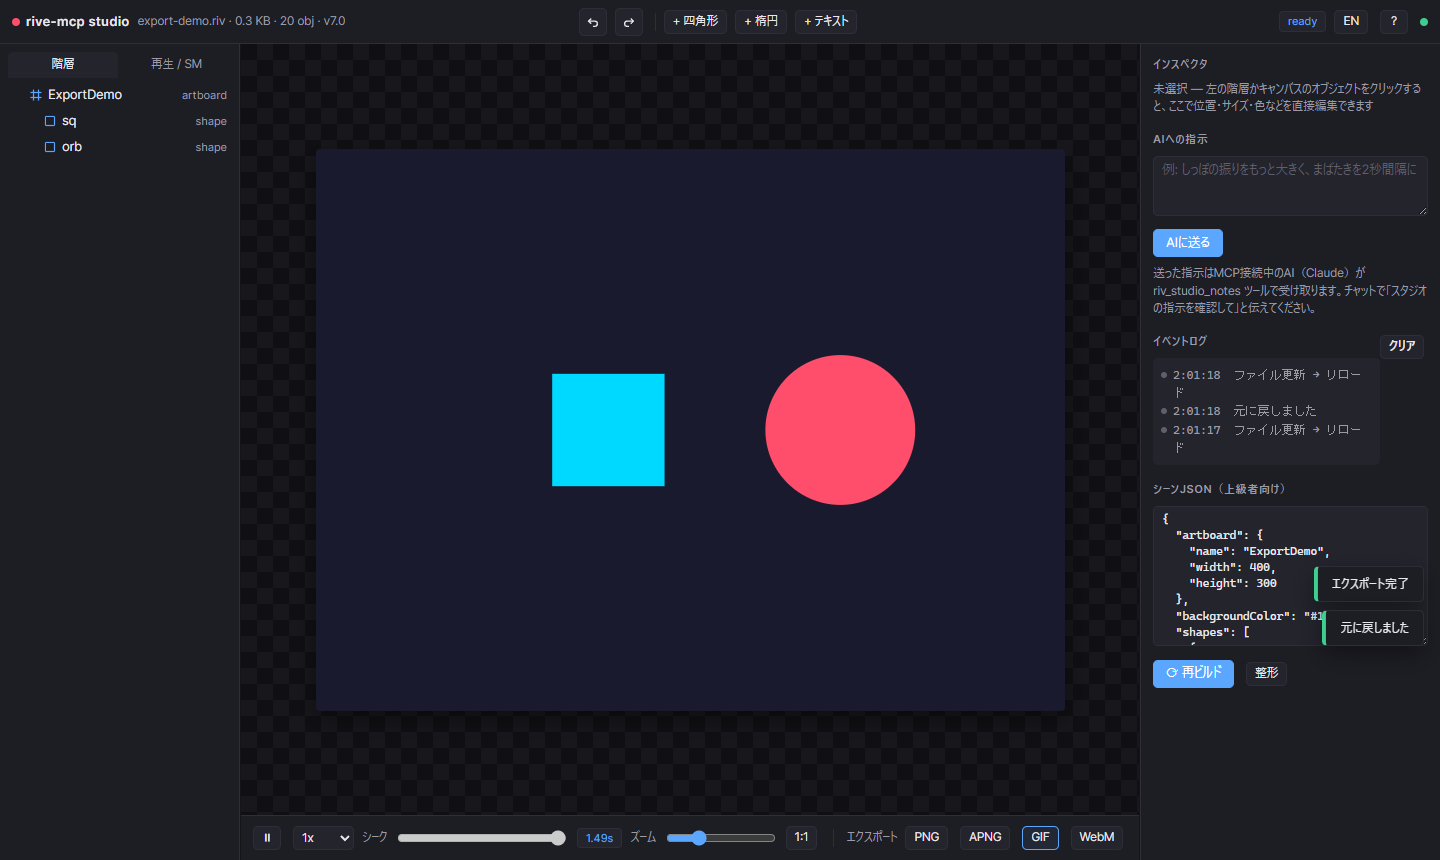
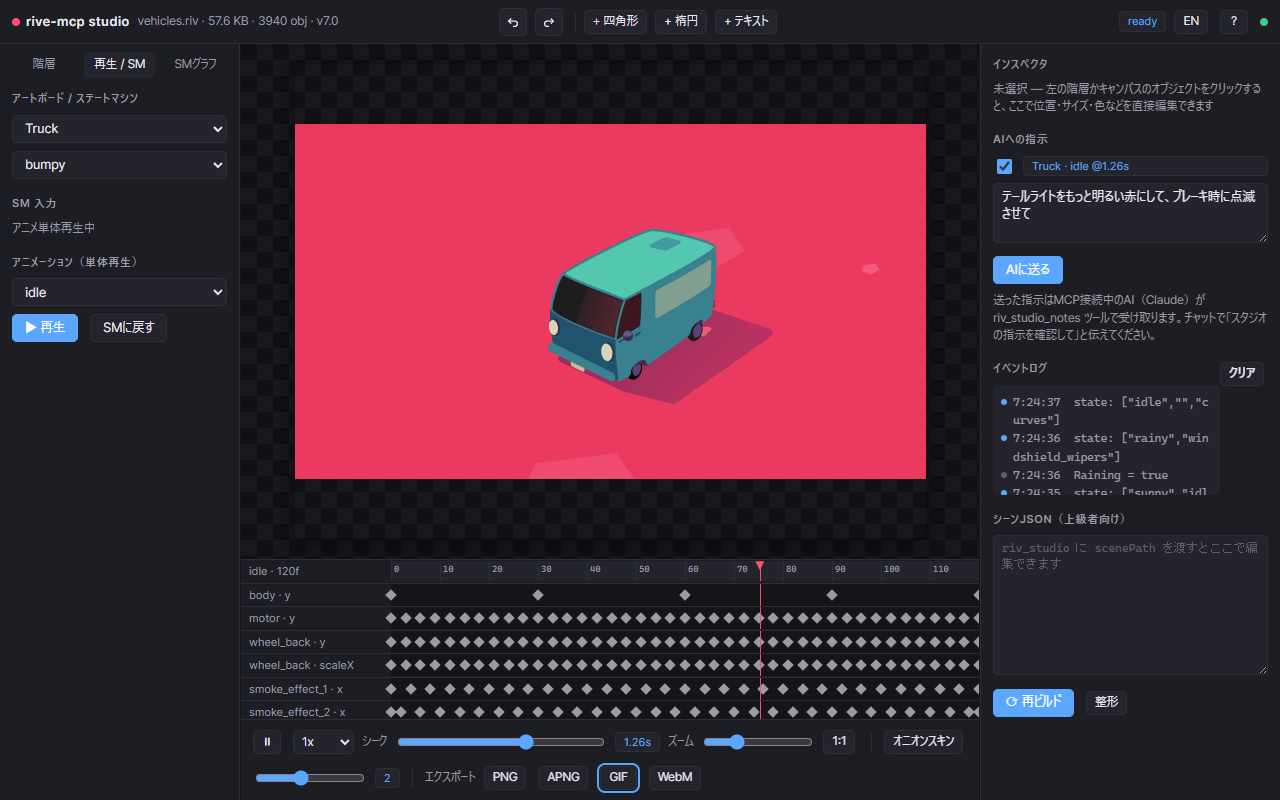
docs: Studio feature tour with screenshots (EN/JA) and demo GIF

diff --git a/README.md b/README.md
@@ -8,7 +8,7 @@ rive-mcp is a free MCP (Model Context Protocol) server that gives Claude (or any
 
 Rendering runs the **official Rive runtime** (`@rive-app/canvas-advanced` WASM) inside headless Chromium, so what you see is exactly what ships.
 
-![Studio screenshot](docs/media/studio.png)
+![Studio screenshot](docs/media/studio-overview-en.png)
 
 <p align="center"><img src="docs/media/showcase-weather.gif" width="380" alt="Weather widget built by the tokens → pro-assets → presets → critique pipeline (artwork: Twemoji)"></p>
 <p align="center"><i>This animation was generated entirely by <code>riv_create</code> — no Rive editor involved.</i></p>
@@ -127,11 +127,43 @@ Requires Node.js 20+.
 
 Works without a scene JSON too: any `.riv` can be edited property-by-property through the hierarchy + inspector.
 
+![Studio in motion — state machine graph, curve editor, onion skin](docs/media/studio-v04.gif)
+
+### Feature tour
+
+**Timeline / dope sheet** — per-track keyframes with seek, zoom and playback-speed control.
+
+![Timeline](docs/media/studio-timeline-en.png)
+
+**Bezier curve editor** — pick a keyframe span, drag the control points, or apply one of 10 easing presets. Switch any span between hold / linear / cubic.
+
+![Curve editor](docs/media/studio-curve-en.png)
+
+**State machine graph view** — layers, states and transitions as a node graph; click a transition to see its duration / exitTime / conditions. Lint-integrated: unreachable states are red, unconditional self-transitions yellow, and the active state glows during playback.
+
+![State machine graph](docs/media/studio-smgraph-en.png)
+
+**State machine playground** — flip bool inputs and fire triggers from the browser to watch transitions happen.
+
+![State machine inputs](docs/media/studio-sm-inputs-en.png)
+
+**Onion skinning** — ghost the surrounding 0–5 frames with distance-based opacity to check motion arcs at a glance.
+
+![Onion skin](docs/media/studio-onion-en.png)
+
+**Direct editing** — select in the hierarchy or on the canvas, then edit position / rotation / scale / colors / text in the inspector with undo/redo.
+
+![Inspector editing](docs/media/studio-edit-en.png)
+
+**Instructions for AI** — type a change request and it ships with your current selection, artboard, animation and playhead time auto-attached; the AI picks it up via `riv_studio_notes`.
+
+![Instructions for AI](docs/media/studio-notes-en.png)
+
 ## One-click export
 
 Click PNG / APNG / GIF / WebM in the Studio toolbar to render the current animation on the spot — no MCP round-trip needed for a quick preview export.
 
-![Export panel](docs/media/studio-export.png)
+![Export panel](docs/media/studio-export-en.png)
 
 ## Character animation
 

diff --git a/README.ja.md b/README.ja.md
@@ -4,7 +4,7 @@
 
 エディタ不要・完全無料・ローカル完結の Rive (`.riv`) MCP サーバー。
 
-![Studio スクリーンショット](docs/media/studio-ja.png)
+![Studio スクリーンショット](docs/media/studio-overview.png)
 
 <p align="center"><img src="docs/media/showcase-weather.gif" width="380" alt="トークン→プロ素材→プリセット→critiqueパイプラインで生成した天気ウィジェット（アートワーク: Twemoji）"></p>
 <p align="center"><i>このアニメーションは <code>riv_create</code> だけで生成（Riveエディタ不使用）</i></p>
@@ -149,6 +149,38 @@ Twemojiアートワーク © Twitter/X and contributors（[CC-BY 4.0](https://cr
 2. **直接さわる** — キャンバスでクリック選択・ドラッグ移動、インスペクタで数値/色/テキストを変更（即時反映）。イージングはベジェカーブエディタで、State Machineの遷移はグラフビューで直接確認・編集できる。オニオンスキンをオンにすれば前後のフレームを重ねて動きを一目でチェックできる
 3. **AIに頼む** — 大きな変更は「AIへの指示」ボックスに書いて送信（選択中オブジェクト・アートボード・時刻などのコンテキストが自動添付される）→ チャットで「スタジオの指示を確認して」
 4. AIが `riv_edit` / `riv_create` で修正すると、ブラウザは自動で最新状態に更新される
+
+![Studio の新機能 — SMグラフ・カーブエディタ・オニオンスキン](docs/media/studio-v04-ja.gif)
+
+### 機能ツアー
+
+**タイムライン / ドープシート** — トラックごとのキーフレームを一覧・シーク。ズームと再生速度切替付き。
+
+![タイムライン](docs/media/studio-timeline.png)
+
+**ベジェカーブエディタ** — キーフレーム区間を選んで制御点をドラッグ。hold / linear / cubic 切替と定番プリセット10種。
+
+![カーブエディタ](docs/media/studio-curve.png)
+
+**State Machine グラフビュー** — レイヤー・状態・遷移をノードグラフで表示。遷移クリックで duration / exitTime / 条件を確認。リント連動で到達不能 state は赤、条件なし自己遷移は黄、再生中のアクティブ state は緑にハイライト。
+
+![SMグラフビュー](docs/media/studio-smgraph.png)
+
+**State Machine 実行パネル** — bool の ON/OFF・trigger の発火をブラウザから操作して遷移を確認。
+
+![SM実行パネル](docs/media/studio-sm-inputs.png)
+
+**オニオンスキン** — 前後 0〜5 フレームを距離に応じた濃さで重ね表示。動きの軌跡が一目で分かる。
+
+![オニオンスキン](docs/media/studio-onion.png)
+
+**直接編集** — 階層ツリーやキャンバスで選択し、インスペクタで位置・回転・スケール・色・テキストを即時変更（undo/redo 対応）。
+
+![インスペクタ編集](docs/media/studio-edit.png)
+
+**AIへの指示** — 修正依頼を書いて送ると、選択中オブジェクト・アートボード・アニメーション・再生時刻が自動で添付され、AI 側が `riv_studio_notes` で受け取る。
+
+![AIへの指示](docs/media/studio-notes.png)
 
 ## ワンクリック書き出し
 